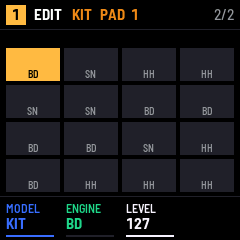
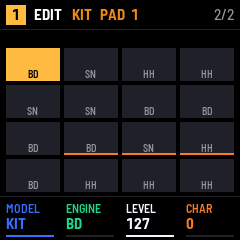
KIT: K4 CHAR blends each pad between its analog and synthetic sound

diff --git a/app/ui.c b/app/ui.c
@@ -60,7 +60,7 @@ static const q_page PAGE[] = {
     {"SEED", {"SEED", "DENS", "AUTO"}, {0, 0, 0}, {127, 127, 1}},
     {"EVOL", {"GEN", "MUT"}, {0, 0}, {3, 127}},
     {"PAD", {"TUNE", "HARM", "TIMB", "DECAY"}, {-24, 0, 0, 0}, {24, 127, 127, 127}},
-    {"KIT", {"MODEL", "ENGINE", "LEVEL"}, {0, 0, 0}, {M_KIT, 2, 127}},
+    {"KIT", {"MODEL", "ENGINE", "LEVEL", "CHAR"}, {0, 0, 0, 0}, {M_KIT, 2, 127, 127}},
     {"ADSR", {"ATTACK", "DECAY", "SUSTAIN", "RELEASE"}, {0, 0, 0, 0}, {127, 127, 127, 127}},
     {"FILTER", {"TYPE", "CUTOFF", "RES", "ENV AMT"}, {0, 0, 0, -64}, {2, 127, 127, 63}},
     {"LFO", {"SHAPE", "RATE", "DEPTH", "DEST"}, {0, 0, -64, 0}, {4, LRATE_SYNC + 63, 63, 6}},
@@ -158,6 +158,7 @@ typedef struct {
         int16_t v[4];
         uint8_t model, pad;                     /* pad: KIT, the pad its knobs set */
         uint8_t eng[Q_PADS];                    /* KIT: the pads' engines */
+        uint8_t chr[Q_PADS];                    /* KIT: the pads' CHAR */
         q_step st[16];
         int32_t cpu[8];                         /* the CPU page's numbers as shown; core 2 -1: OFF */
         uint8_t anim;                           /* an animated scene, redrawn as it moves: 0 none, 1 the sound's scene (v: its ENGINE
@@ -386,6 +387,7 @@ static int knob_get(int pid, int k)
     case P_PAD * 4 + 3: return pd->decay;
     case P_KIT * 4 + 1: return pd->engine;
     case P_KIT * 4 + 2: return pd->level;
+    case P_KIT * 4 + 3: return pd->chr;
     case P_ADSR * 4: return s->atk;
     case P_ADSR * 4 + 1: return s->dec;
     case P_ADSR * 4 + 2: return s->sus;
@@ -568,6 +570,7 @@ static void knob_set(int pid, int k, int v)
     case P_PAD * 4 + 3: pd->decay = (uint8_t)v; break;
     case P_KIT * 4 + 1: pd->engine = (uint8_t)v; break;     /* the render takes it at the pad's next hit */
     case P_KIT * 4 + 2: pd->level = (uint8_t)v; break;
+    case P_KIT * 4 + 3: pd->chr = (uint8_t)v; break;
     case P_ADSR * 4: s->atk = (uint8_t)v; break;
     case P_ADSR * 4 + 1: s->dec = (uint8_t)v; break;
     case P_ADSR * 4 + 2: s->sus = (uint8_t)v; break;
@@ -2310,7 +2313,7 @@ static void view_now(q_view *v)
     } else if (pid == P_KIT) {
         v->scene.pad = (uint8_t)ui.pad;
         for (k = 0; k < Q_PADS; k++)
-            v->scene.eng[k] = ui.p->kit[ui.track][k].engine;
+            v->scene.eng[k] = ui.p->kit[ui.track][k].engine, v->scene.chr[k] = ui.p->kit[ui.track][k].chr;
     } else if (pid == P_STEPS || pid == P_XY || (pid >= P_SN1 && pid <= P_SN3)) {
         v->scene.anim = 2;
         v->scene.spage = (int8_t)ui.spage;
@@ -2697,6 +2700,8 @@ static void draw_scene(const q_view *v, int32_t oy)
             const char *n = ENGINE_NAME[v->scene.eng[i]];
             cv_rect(x, y, 54, 33, i == v->scene.pad ? C_HI : C_LINE);
             cv_text(x + (54 - text_w(&FONT_T, n)) / 2, y + 20, &FONT_T, n, i == v->scene.pad ? C_BLACK : C_GRAY);
+            if (v->scene.chr[i])        /* CHAR: a bar under the name, 1 already shows */
+                cv_rect(x, y + 31, (54 * v->scene.chr[i] + 126) / 127, 2, i == v->scene.pad ? C_BLACK : KCOL[3]);
         }
         break;
     case P_GRIDS:
@@ -3500,6 +3505,7 @@ int ui_expect(const char *what, int *got)
         else if (!strncmp(what, "padharm_", 8)) *got = pd->harm;
         else if (!strncmp(what, "padengine_", 10)) *got = pd->engine;
         else if (!strncmp(what, "padlevel_", 9)) *got = pd->level;
+        else if (!strncmp(what, "padchar_", 8)) *got = pd->chr;
         else
             return 0;
     } else if (!strncmp(what, "stepnotes_", 10) && m >= 1 && m <= Q_STEPS) {

diff --git a/app/docs/MANUAL.md b/app/docs/MANUAL.md
@@ -314,10 +314,14 @@ its own tuning and settings, and a kit plays up to three pads at once. With KIT,
 | Page | K1 | K2 | K3 | K4 |
 | --- | --- | --- | --- | --- |
 | PAD | TUNE, −24 to +24 | HARM, 0–127 | TIMB, 0–127 | DECAY, 0–127 |
-| KIT | MODEL, by name | ENGINE, BD SN HH | LEVEL, 0–127 | — |
+| KIT | MODEL, by name | ENGINE, BD SN HH | LEVEL, 0–127 | CHAR, 0–127 |
 
 The knobs set the last pad played, named in the header (`PAD 1`). In EDIT, hold a pad: K1–K4 set that pad and PRESET
-changes its engine. KIT's scene is the 16 pads, each with its engine, the one the knobs set lit.
+changes its engine. KIT's scene is the 16 pads, each with its engine, the one the knobs set lit, and a bar under each
+pad that shows its CHAR.
+
+CHAR mixes the two sounds each drum engine makes: 0 the analog one, 127 a synthetic take on the same drum (on HH, a
+ring-modulated noise instead of metallic squares), between them a blend.
 
 | Pad | 1 | 2 | 3 | 4 | 5 | 6 | 7 | 8 |
 | --- | --- | --- | --- | --- | --- | --- | --- | --- |
@@ -327,7 +331,7 @@ changes its engine. KIT's scene is the 16 pads, each with its engine, the one th
 
 ![The PAD page: the kit's BD, SN and HH, TUNE -12, HARM 72, TIMB 50, DECAY 70](img/sound-pad.png "PAD, pad 1")
 
-![The KIT page: the 16 pads with their engines, pad 1 lit](img/sound-kit.png "KIT")
+![The KIT page: the 16 pads with their engines, pad 1 lit, a CHAR bar under pads 10–12](img/sound-kit.png "KIT")
 
 ---
 
